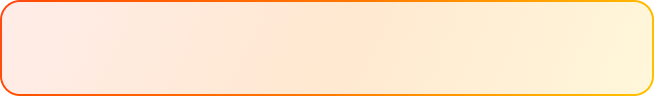
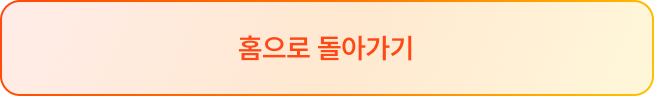
update

Changed region(s): [[0.367, 0.375, 0.6422, 0.625]]

diff --git a/src/components/Web/VotePage/PickAnswerPage.js b/src/components/Web/VotePage/PickAnswerPage.js
@@ -278,11 +278,21 @@ const BackHomeButton = styled.button`
     margin-top: 80px;
     margin-left: 16px;
     margin-bottom: 8px;
+    border: none;
+    background: none;
+`;
+const HomeImage = styled.img`
+  width: 100%;
+  height: 100%;
 `;
 const EndButton = styled.button`
-    margin-left: 16px;
-    width: 327px;
-    height: 48px;
+    margin-left: 20px;
+    width: 318px;
+    height: 47px;
+    border-radius: 10px;
+    background: var(--gray-10, #F8F8F8);
+    border: 0;
+    color:  var(--gray-60, #808080);
 `;
 //종료 모달 안에 내용들
 const modalStyles = {
@@ -310,11 +320,6 @@ const ModalImg = styled.img`
     height: 48px;
     margin-left: 147px;
     margin-bottom: 16px;
-`;
-const ReasonBox = styled.div`
-    width: 200px;
-    height: 100px;
-    background: yellow;
 `;
 const ModalText1 = styled.p`
     text-align: center;
@@ -378,27 +383,40 @@ const reasonModalStyles = {
       right: '0',
       bottom: '0',
       zIndex: '2',
+      display: 'flex',
+      flexDirection: 'column',
+      alignItems: 'center',
+      justifyContent: 'center',
     },
     overlay: {
       backgroundColor: 'rgba(0, 0, 0, 0.50)',
       zIndex: '2',
     },
 };
+const ReasonBox = styled.div`
+  width: 180px;
+  height: 240px;
+  border-radius: 10px;
+  background: var(--white-100, #FFF);
+  box-shadow: 0px 2px 10px 0px #FFE2CE;
+  padding-bottom: 12px;
+`;
 const ReasonModalText1 = styled.p`
   text-align: center;
-  margin-left: 54px;
   width: 235px;
-  margin-bottom: 16px;
   font-size: 18px;
   font-weight: 600;
-  height: 24px;
   font-family: Pretendard;
   colot: #353535;
+  padding: 0;
+  margin: 0;
 `;
 const Point = styled.div`
-  width: 74px;
+  display: inline-block;
+  padding: 0 16px;
   height: 36px;
-  margin-left: 136px;
+  margin-top: 16px;
+  margin-bottom: 48px;
   border-radius: 22px;
   border: 2px solid var(--primary-orange, #EC582F);
 `;
@@ -411,6 +429,32 @@ const ReasonModalText2 = styled.p`
   font-style: normal;
   font-weight: 700;
   line-height: 20px;
+`;
+const ReasonModalText3 = styled.p`
+  color: #ABABAB;
+  text-align: center;
+  font-size: 12px;
+  font-family: Pretendard;
+  font-style: normal;
+  font-weight: 600;
+  line-height: 16px;
+  padding-top: 25px;
+`;
+const ReasonModalText3Point = styled.span`
+  color: var(--gray-60, #808080);
+  font-size: 14px;
+`;
+const ReasonModalText4 = styled.p`
+  color: var(--primary-orange, #EC582F);
+  text-align: center;
+  font-size: 14px;
+  font-family: Pretendard;
+  font-style: normal;
+  font-weight: 600;
+  line-height: 18px;
+  width: 148px;
+  height: 126px;
+  margin-left: 16px;
 `;
 
 
@@ -574,6 +618,20 @@ function PickAnswerPage() {
         setShowMessage(false);
     }, 1000);
     };
+    //이유들 넘길때
+    const [currentReasonIndex, setCurrentReasonIndex] = useState(0);
+
+    const handleNextReason = () => {
+      if (currentReasonIndex < reasonzips.length - 1) {
+        setCurrentReasonIndex(currentReasonIndex + 1);
+      }
+    };
+  
+    const handlePreviousReason = () => {
+      if (currentReasonIndex > 0) {
+        setCurrentReasonIndex(currentReasonIndex - 1);
+      }
+    };
 
     return (
         <>
@@ -622,7 +680,7 @@ function PickAnswerPage() {
                     </div>
                 ))}
                 <TotalNumber>총 <RedText>{totalVotes}명</RedText>이 참여했어요.</TotalNumber>
-                <BackHomeButton onClick={handleBackHome}>홈으로 돌아가기</BackHomeButton>
+                <BackHomeButton onClick={handleBackHome}><HomeImage src = {HomeButtonImage} /></BackHomeButton>
                 {voteEnd ? (<EndButton onClick={() => setConfirmEndVoteModalOpen(true)}>투표 종료하기</EndButton>) : null}
                 <Modal isOpen={confirmEndVoteModalOpen} onRequestClose={handleCloseEndModal} contentLabel="투표 종료 확인" style={modalStyles}>
                     <CancelButton onClick={handleCloseEndModal}><CancelX src={X}/></CancelButton>
@@ -637,13 +695,15 @@ function PickAnswerPage() {
                   <CancelButton onClick={handleCloseModal}><CancelX src={X}/></CancelButton>
                     <ReasonModalText1>{questionzip}</ReasonModalText1>
                     <Point><ReasonModalText2>{keyword}</ReasonModalText2></Point>
-                    {reasonzips.map(({ reason, nickname }) => (
-                        <ReasonBox key={reason}>
-                            <h6>작성자 nickname: {nickname}</h6>
-                            <h3>{reason}</h3>
+                    {/* {reasonzips.map(({ reason, nickname }) => ( */}
+                        <ReasonBox>
+                            <ReasonModalText3><ReasonModalText3Point>{reasonzips[currentReasonIndex].nickname}</ReasonModalText3Point> 님의 답변</ReasonModalText3>
+                            <ReasonModalText4>{reasonzips[currentReasonIndex].reason}</ReasonModalText4>
+                            <ModalCancelButton style={{width: '72px', height: '32px', marginLeft:'16px', marginRight:'4px'}} onClick={handlePreviousReason}>이전</ModalCancelButton>
+                            <ModalCheckButton style={{width: '72px', height: '32px'}} onClick={handleNextReason}disabled={currentReasonIndex === reasonzips.length - 1}>다음</ModalCheckButton>
                         </ReasonBox>
-                    ))}
-                    <ModalCheckButton isopen="false" onClick={handleCloseModal} style={{ width: '180px', marginLeft: '82px', marginBottom: '24px' }}> <RedText>확인</RedText> </ModalCheckButton>
+                    {/* ))} */}
+                    <ModalCheckButton isopen="false" onClick={handleCloseModal} style={{ width: '180px', marginBottom: '24px', marginTop: '60px' }}> <RedText>확인</RedText> </ModalCheckButton>
                 </Modal>
             </Div>
         </DDiv>
